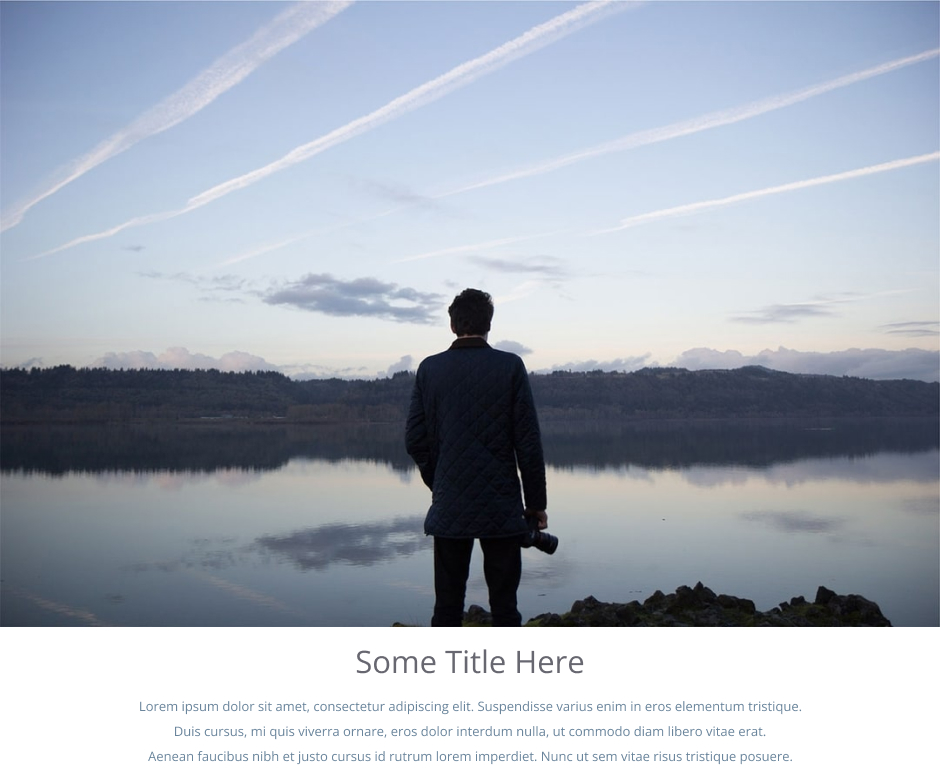
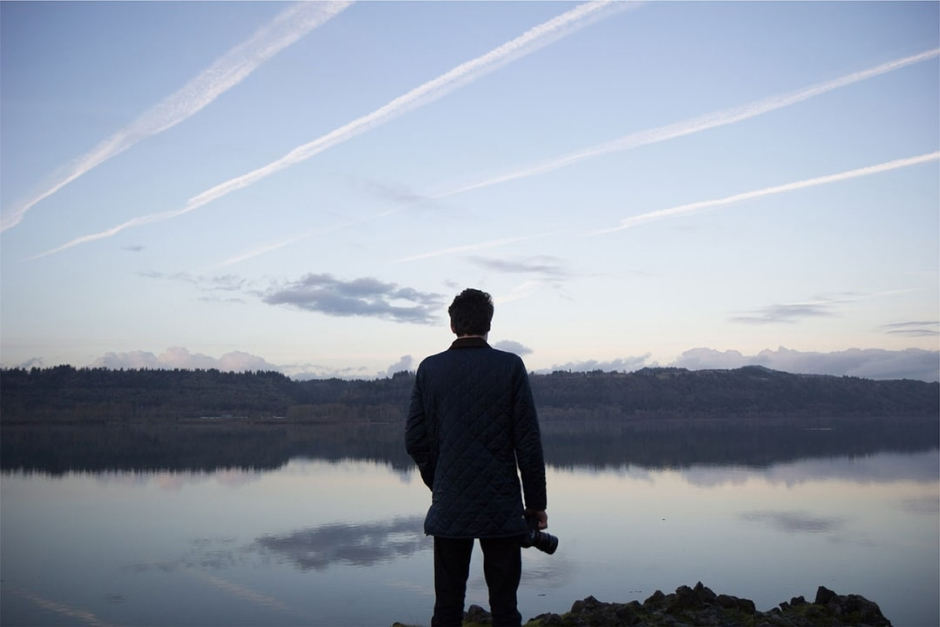
Add files via upload

diff --git a/index.html b/index.html
@@ -163,6 +163,17 @@
                         </a>
                     </div>
                     <img class="tab__img" src="images/tab/tab__img.jpg" alt="">
+                    <h2 class="tab__title-bottom title">
+                        Some Title Here
+                    </h2>
+                    <p class="tab__text-bottom text">
+                        Lorem ipsum dolor sit amet, consectetur adipiscing elit. Suspendisse varius enim in eros
+                        elementum tristique. <br>
+                        Duis cursus, mi quis viverra ornare, eros dolor interdum nulla, ut commodo diam libero vitae
+                        erat. <br>
+                        Aenean faucibus nibh et justo cursus id rutrum lorem imperdiet. Nunc ut sem vitae risus
+                        tristique posuere.
+                    </p>
                 </div>
             </div>
         </section>
@@ -219,7 +230,7 @@
                                 </a>
                             </div>
                             <div class="social__item-google social__item">
-                                <a class="social__item-text" href="#"> 
+                                <a class="social__item-text" href="#">
                                     Google
                                 </a>
                             </div>

diff --git a/scss/style.scss b/scss/style.scss
@@ -57,6 +57,7 @@ h1,h2,h3,h4,h5 {
     text-decoration: none;
     font-size: 15px;
     transition-duration: 0.5s;
+    color: #676770;
 }
 .menu__link:hover {
     color: #0082F3;
@@ -271,6 +272,12 @@ h1,h2,h3,h4,h5 {
     background-color: #2E80B6;
 }
 .tab__img {
+    margin-bottom: 16px;
+}
+.tab__title-bottom {
+    text-transform: none;
+    letter-spacing: 0;
+    margin-bottom: 14px;
 }
 @media (max-width: 510px) {
     .tab__btns {
@@ -309,7 +316,7 @@ h1,h2,h3,h4,h5 {
 .about__list-text {
     text-align: left;
     padding-right: 20px;
-    padding-top: 5px;
+    padding-top: 8px;
 }
 .about__links {
     display: flex;
@@ -318,7 +325,7 @@ h1,h2,h3,h4,h5 {
 .about__link {
     text-decoration: none;
     padding-bottom: 12px;
-    padding-top: 5px;
+    padding-top: 8px;
     font-size: 13px;
     color: #668CAD;
     border-bottom: 1px solid #D5D5E0;
@@ -329,7 +336,7 @@ h1,h2,h3,h4,h5 {
     display: flex;
     font-size: 13px;
     padding-bottom: 12px;
-    padding-top: 5px;
+    padding-top: 8px;
     border-bottom: 1px solid #D5D5E0;
     margin-left: 30px;
     position: relative;

diff --git a/css/style.css b/css/style.css
@@ -340,6 +340,16 @@ h1, h2, h3, h4, h5 {
   background-color: #2E80B6;
 }
 
+.tab__img {
+  margin-bottom: 16px;
+}
+
+.tab__title-bottom {
+  text-transform: none;
+  letter-spacing: 0;
+  margin-bottom: 14px;
+}
+
 @media (max-width: 510px) {
   .tab__btns {
     -webkit-box-orient: vertical;
@@ -389,7 +399,7 @@ h1, h2, h3, h4, h5 {
 .about__list-text {
   text-align: left;
   padding-right: 20px;
-  padding-top: 5px;
+  padding-top: 8px;
 }
 
 .about__links {
@@ -405,7 +415,7 @@ h1, h2, h3, h4, h5 {
 .about__link {
   text-decoration: none;
   padding-bottom: 12px;
-  padding-top: 5px;
+  padding-top: 8px;
   font-size: 13px;
   color: #668CAD;
   border-bottom: 1px solid #D5D5E0;
@@ -417,7 +427,7 @@ h1, h2, h3, h4, h5 {
   display: flex;
   font-size: 13px;
   padding-bottom: 12px;
-  padding-top: 5px;
+  padding-top: 8px;
   border-bottom: 1px solid #D5D5E0;
   margin-left: 30px;
   position: relative;
